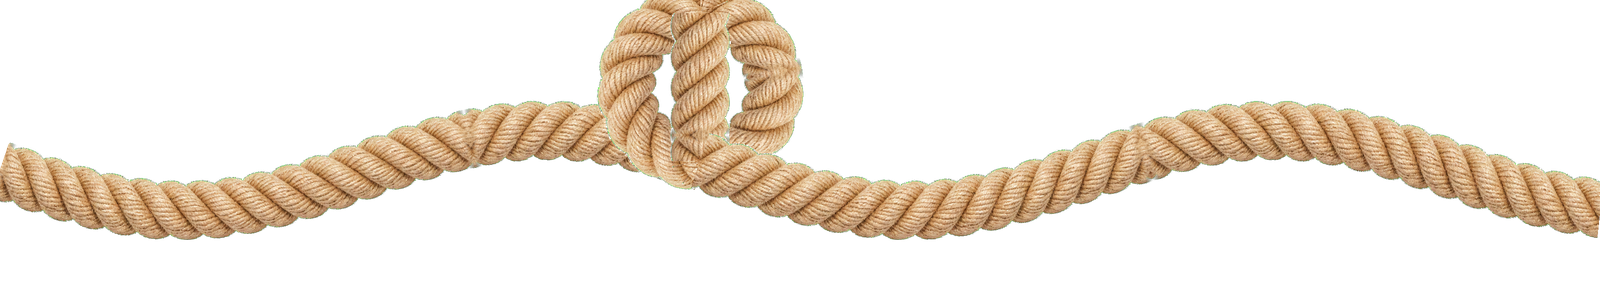
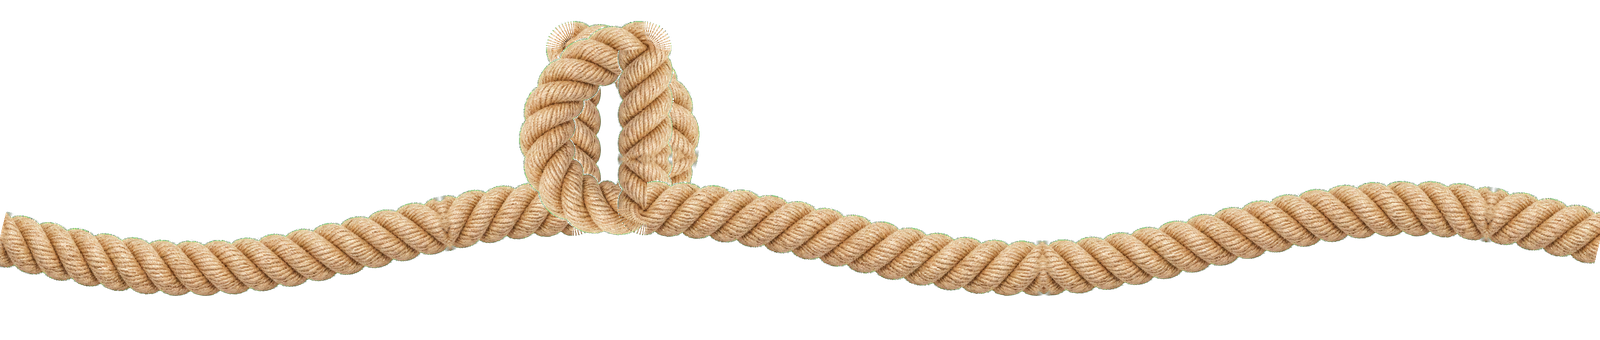
Lasso refined: single cursive loop with under-crossing, periodic ends, tangent smoothing

diff --git a/index.html b/index.html
@@ -117,10 +117,10 @@
 <body>
 
 <nav class="rope-nav" aria-label="main">
-  <svg viewBox="0 0 1600 300" style="display:block; width:100%; height:auto;" role="navigation">
-    <image href="assets/rope-banner.png" x="0" y="0" width="1600" height="300"/>
+  <svg viewBox="0 0 1600 340" style="display:block; width:100%; height:auto;" role="navigation">
+    <image href="assets/rope-banner.png" x="0" y="0" width="1600" height="340"/>
     <defs>
-      <path id="ropePath" d="M 0.0 170.0 L 3.8 171.3 L 7.6 172.6 L 11.3 173.9 L 15.1 175.2 L 18.9 176.5 L 22.7 177.8 L 26.5 179.1 L 30.3 180.3 L 34.1 181.6 L 37.9 182.9 L 41.7 184.1 L 45.5 185.3 L 49.3 186.5 L 53.1 187.7 L 56.9 188.9 L 60.8 190.0 L 64.6 191.2 L 68.5 192.3 L 72.3 193.4 L 76.2 194.5 L 80.0 195.5 L 83.9 196.5 L 87.8 197.5 L 91.6 198.5 L 95.5 199.4 L 99.4 200.3 L 103.3 201.2 L 107.3 202.0 L 111.2 202.8 L 115.1 203.5 L 119.0 204.3 L 123.0 204.9 L 126.9 205.6 L 130.9 206.2 L 134.8 206.7 L 138.8 207.3 L 142.8 207.7 L 146.8 208.2 L 150.7 208.6 L 154.7 208.9 L 158.7 209.2 L 162.7 209.5 L 166.7 209.7 L 170.7 209.8 L 174.7 209.9 L 178.7 210.0 L 182.7 210.0 L 186.7 210.0 L 190.7 209.9 L 194.7 209.8 L 198.7 209.6 L 202.7 209.4 L 206.7 209.1 L 210.7 208.8 L 214.6 208.4 L 218.6 208.0 L 222.6 207.5 L 226.6 207.0 L 230.5 206.5 L 234.5 205.9 L 238.4 205.3 L 242.4 204.6 L 246.3 203.9 L 250.2 203.2 L 254.2 202.4 L 258.1 201.6 L 262.0 200.8 L 265.9 199.9 L 269.8 199.0 L 273.7 198.1 L 277.6 197.1 L 281.4 196.1 L 285.3 195.1 L 289.2 194.0 L 293.0 192.9 L 296.9 191.8 L 300.7 190.7 L 304.5 189.5 L 308.4 188.4 L 312.2 187.2 L 316.0 186.0 L 319.8 184.8 L 323.6 183.6 L 327.4 182.3 L 331.2 181.1 L 335.0 179.8 L 338.8 178.5 L 342.6 177.2 L 346.4 175.9 L 350.2 174.6 L 353.9 173.3 L 357.7 172.0 L 361.5 170.7 L 365.3 169.4 L 369.1 168.1 L 372.8 166.8 L 376.6 165.5 L 380.4 164.2 L 384.2 162.9 L 388.0 161.6 L 391.8 160.4 L 395.6 159.1 L 399.4 157.8 L 403.2 156.6 L 407.0 155.4 L 410.8 154.2 L 414.6 153.0 L 418.4 151.8 L 422.2 150.6 L 426.1 149.5 L 429.9 148.3 L 433.8 147.2 L 437.6 146.1 L 441.5 145.1 L 445.3 144.1 L 449.2 143.1 L 453.1 142.1 L 457.0 141.1 L 460.9 140.2 L 464.8 139.3 L 468.7 138.5 L 472.6 137.7 L 476.5 136.9 L 480.4 136.1 L 484.4 135.4 L 488.3 134.8 L 492.3 134.1 L 496.2 133.6 L 500.2 133.0 L 504.2 132.5 L 508.1 132.1 L 512.1 131.6 L 516.1 131.3 L 520.1 131.0 L 524.1 130.7 L 528.1 130.5 L 532.1 130.3 L 536.1 130.1 L 540.1 130.0 L 544.1 130.0 L 548.1 130.0 L 552.1 130.1 L 556.1 130.2 L 560.1 130.3 L 564.1 130.5 L 568.0 130.8 L 572.0 131.1 L 576.0 131.4 L 580.0 131.8 L 584.0 132.2 L 588.0 132.7 L 591.9 133.2 L 595.9 133.7 L 599.8 134.3 L 603.8 135.0 L 607.7 135.7 L 611.7 136.4 L 615.6 137.1 L 619.5 137.9 L 623.4 138.7 L 627.3 139.6 L 631.2 140.5 L 635.1 141.4 L 639.0 142.4 L 642.9 143.4 L 646.8 144.4 L 650.6 145.4 L 654.5 146.5 L 658.3 147.6 L 662.2 148.7 L 666.0 149.8 L 669.8 151.0 L 673.7 152.1 L 677.5 153.3 L 681.3 154.5 L 685.1 155.7 L 688.9 157.0 L 692.7 158.2 L 696.5 159.5 L 700.0 160.4 L 700.0 156.4 L 700.0 152.4 L 700.0 148.4 L 700.0 144.4 L 700.0 140.4 L 700.0 136.4 L 700.0 132.4 L 700.0 128.4 L 700.0 124.4 L 700.0 120.4 L 700.0 116.4 L 700.0 112.4 L 700.0 108.4 L 700.0 104.4 L 700.0 100.4 L 700.0 96.4 L 700.0 92.4 L 700.0 88.4 L 700.0 84.4 L 700.0 80.4 L 700.0 76.4 L 700.0 72.4 L 700.0 68.4 L 700.0 64.4 L 700.0 60.4 L 700.0 56.4 L 700.0 52.4 L 700.0 48.4 L 700.0 44.4 L 700.0 40.4 L 700.0 36.4 L 700.0 32.4 L 700.0 28.4 L 700.0 24.4 L 700.0 20.4 L 700.0 16.4 L 700.3 12.7 L 704.3 12.8 L 708.3 13.1 L 712.2 13.7 L 716.2 14.5 L 720.1 15.4 L 723.9 16.6 L 727.6 18.0 L 731.3 19.6 L 734.9 21.4 L 738.3 23.4 L 741.7 25.5 L 744.9 27.9 L 748.1 30.4 L 751.0 33.1 L 753.8 35.9 L 756.5 38.9 L 759.0 42.0 L 761.3 45.3 L 763.5 48.6 L 765.4 52.1 L 767.2 55.7 L 768.8 59.4 L 770.2 63.1 L 771.3 67.0 L 772.3 70.9 L 773.0 74.8 L 773.6 78.7 L 773.9 82.7 L 774.0 86.7 L 773.9 90.7 L 773.6 94.7 L 773.0 98.7 L 772.3 102.6 L 771.3 106.5 L 770.1 110.3 L 768.7 114.1 L 767.2 117.7 L 765.4 121.3 L 763.4 124.8 L 761.3 128.2 L 758.9 131.4 L 756.4 134.5 L 753.8 137.5 L 750.9 140.3 L 748.0 143.0 L 744.8 145.5 L 741.6 147.9 L 738.2 150.0 L 734.7 152.0 L 731.2 153.8 L 727.5 155.4 L 723.7 156.7 L 719.9 157.9 L 716.0 158.9 L 712.1 159.7 L 708.2 160.2 L 704.2 160.5 L 700.2 160.7 L 696.2 160.6 L 692.2 160.2 L 688.2 159.7 L 684.3 159.0 L 680.4 158.0 L 676.6 156.9 L 672.8 155.5 L 669.1 153.9 L 665.6 152.2 L 662.1 150.2 L 658.7 148.1 L 655.4 145.7 L 652.3 143.2 L 649.3 140.6 L 646.5 137.8 L 643.8 134.8 L 641.3 131.7 L 638.9 128.5 L 636.8 125.1 L 634.8 121.6 L 633.0 118.0 L 631.4 114.4 L 630.0 110.6 L 628.8 106.8 L 627.8 102.9 L 627.0 99.0 L 626.5 95.1 L 626.1 91.1 L 626.0 87.1 L 626.1 83.1 L 626.4 79.1 L 626.9 75.1 L 627.6 71.2 L 628.6 67.3 L 629.7 63.5 L 631.1 59.7 L 632.6 56.0 L 634.4 52.4 L 636.3 48.9 L 638.5 45.6 L 640.8 42.3 L 643.3 39.2 L 645.9 36.2 L 648.7 33.3 L 651.7 30.6 L 654.8 28.1 L 658.0 25.7 L 661.4 23.5 L 664.8 21.6 L 668.4 19.7 L 672.1 18.1 L 675.8 16.7 L 679.6 15.5 L 683.5 14.5 L 687.4 13.7 L 691.4 13.2 L 695.4 12.8 L 699.3 12.7 L 700.0 16.0 L 700.0 20.0 L 700.0 24.0 L 700.0 28.0 L 700.0 32.0 L 700.0 36.0 L 700.0 40.0 L 700.0 44.0 L 700.0 48.0 L 700.0 52.0 L 700.0 56.0 L 700.0 60.0 L 700.0 64.0 L 700.0 68.0 L 700.0 72.0 L 700.0 76.0 L 700.0 80.0 L 700.0 84.0 L 700.0 88.0 L 700.0 92.0 L 700.0 96.0 L 700.0 100.0 L 700.0 104.0 L 700.0 108.0 L 700.0 112.0 L 700.0 116.0 L 700.0 120.0 L 700.0 124.0 L 700.0 128.0 L 700.0 132.0 L 700.0 136.0 L 700.0 140.0 L 700.0 144.0 L 700.0 148.0 L 700.0 152.0 L 700.0 156.0 L 700.0 160.0 L 703.2 161.7 L 707.0 163.0 L 710.7 164.3 L 714.5 165.6 L 718.3 166.9 L 722.1 168.2 L 725.9 169.5 L 729.7 170.8 L 733.4 172.1 L 737.2 173.4 L 741.0 174.7 L 744.8 176.0 L 748.6 177.3 L 752.4 178.6 L 756.2 179.9 L 759.9 181.1 L 763.7 182.4 L 767.5 183.6 L 771.4 184.9 L 775.2 186.1 L 779.0 187.3 L 782.8 188.5 L 786.6 189.6 L 790.5 190.8 L 794.3 191.9 L 798.1 193.0 L 802.0 194.1 L 805.9 195.1 L 809.7 196.1 L 813.6 197.1 L 817.5 198.1 L 821.4 199.1 L 825.3 200.0 L 829.2 200.8 L 833.1 201.7 L 837.0 202.5 L 840.9 203.3 L 844.9 204.0 L 848.8 204.7 L 852.7 205.4 L 856.7 206.0 L 860.6 206.5 L 864.6 207.1 L 868.6 207.6 L 872.6 208.0 L 876.5 208.4 L 880.5 208.8 L 884.5 209.1 L 888.5 209.4 L 892.5 209.6 L 896.5 209.8 L 900.5 209.9 L 904.5 210.0 L 908.5 210.0 L 912.5 210.0 L 916.5 209.9 L 920.5 209.8 L 924.5 209.6 L 928.5 209.4 L 932.5 209.2 L 936.5 208.9 L 940.4 208.5 L 944.4 208.2 L 948.4 207.7 L 952.4 207.2 L 956.3 206.7 L 960.3 206.1 L 964.2 205.5 L 968.2 204.9 L 972.1 204.2 L 976.1 203.5 L 980.0 202.7 L 983.9 201.9 L 987.8 201.1 L 991.7 200.2 L 995.6 199.3 L 999.5 198.4 L 1003.4 197.4 L 1007.3 196.5 L 1011.1 195.4 L 1015.0 194.4 L 1018.9 193.3 L 1022.7 192.2 L 1026.6 191.1 L 1030.4 190.0 L 1034.2 188.8 L 1038.0 187.6 L 1041.9 186.4 L 1045.7 185.2 L 1049.5 184.0 L 1053.3 182.8 L 1057.1 181.5 L 1060.9 180.3 L 1064.7 179.0 L 1068.5 177.7 L 1072.2 176.4 L 1076.0 175.1 L 1079.8 173.8 L 1083.6 172.5 L 1087.4 171.2 L 1091.2 169.9 L 1094.9 168.6 L 1098.7 167.3 L 1102.5 166.0 L 1106.3 164.7 L 1110.1 163.4 L 1113.9 162.1 L 1117.6 160.8 L 1121.4 159.6 L 1125.2 158.3 L 1129.0 157.1 L 1132.8 155.8 L 1136.6 154.6 L 1140.5 153.4 L 1144.3 152.2 L 1148.1 151.0 L 1151.9 149.9 L 1155.8 148.7 L 1159.6 147.6 L 1163.5 146.5 L 1167.3 145.5 L 1171.2 144.4 L 1175.0 143.4 L 1178.9 142.4 L 1182.8 141.5 L 1186.7 140.5 L 1190.6 139.7 L 1194.5 138.8 L 1198.4 138.0 L 1202.3 137.2 L 1206.3 136.4 L 1210.2 135.7 L 1214.1 135.0 L 1218.1 134.4 L 1222.0 133.8 L 1226.0 133.2 L 1230.0 132.7 L 1233.9 132.2 L 1237.9 131.8 L 1241.9 131.4 L 1245.9 131.1 L 1249.9 130.8 L 1253.9 130.5 L 1257.9 130.3 L 1261.9 130.2 L 1265.9 130.1 L 1269.9 130.0 L 1273.9 130.0 L 1277.9 130.0 L 1281.9 130.1 L 1285.9 130.3 L 1289.9 130.4 L 1293.8 130.7 L 1297.8 130.9 L 1301.8 131.3 L 1305.8 131.6 L 1309.8 132.0 L 1313.8 132.5 L 1317.7 133.0 L 1321.7 133.5 L 1325.6 134.1 L 1329.6 134.7 L 1333.5 135.4 L 1337.5 136.1 L 1341.4 136.8 L 1345.3 137.6 L 1349.3 138.4 L 1353.2 139.3 L 1357.1 140.2 L 1361.0 141.1 L 1364.8 142.0 L 1368.7 143.0 L 1372.6 144.0 L 1376.5 145.0 L 1380.3 146.1 L 1384.2 147.2 L 1388.0 148.3 L 1391.9 149.4 L 1395.7 150.5 L 1399.5 151.7 L 1403.3 152.9 L 1407.2 154.1 L 1411.0 155.3 L 1414.8 156.5 L 1418.6 157.8 L 1422.4 159.0 L 1426.2 160.3 L 1430.0 161.6 L 1433.7 162.8 L 1437.5 164.1 L 1441.3 165.4 L 1445.1 166.7 L 1448.9 168.0 L 1452.7 169.3 L 1456.4 170.7 L 1460.2 172.0 L 1464.0 173.3 L 1467.8 174.6 L 1471.6 175.9 L 1475.4 177.2 L 1479.1 178.4 L 1482.9 179.7 L 1486.7 181.0 L 1490.5 182.2 L 1494.3 183.5 L 1498.1 184.7 L 1501.9 185.9 L 1505.8 187.1 L 1509.6 188.3 L 1513.4 189.5 L 1517.2 190.6 L 1521.1 191.7 L 1524.9 192.8 L 1528.8 193.9 L 1532.6 195.0 L 1536.5 196.0 L 1540.4 197.0 L 1544.2 198.0 L 1548.1 198.9 L 1552.0 199.8 L 1555.9 200.7 L 1559.8 201.6 L 1563.8 202.4 L 1567.7 203.2 L 1571.6 203.9 L 1575.5 204.6 L 1579.5 205.3 L 1583.4 205.9 L 1587.4 206.5 L 1591.4 207.0 L 1595.3 207.5 L 1599.3 208.0" />
+      <path id="ropePath" d="M 0.0 238.0 L 3.9 239.0 L 7.8 239.9 L 11.7 240.9 L 15.5 241.8 L 19.4 242.8 L 23.3 243.7 L 27.2 244.7 L 31.1 245.6 L 35.0 246.5 L 38.9 247.4 L 42.8 248.3 L 46.7 249.2 L 50.6 250.1 L 54.5 251.0 L 58.4 251.9 L 62.3 252.7 L 66.2 253.5 L 70.1 254.4 L 74.0 255.2 L 78.0 255.9 L 81.9 256.7 L 85.8 257.5 L 89.7 258.2 L 93.7 258.9 L 97.6 259.6 L 101.6 260.2 L 105.5 260.9 L 109.5 261.5 L 113.4 262.1 L 117.4 262.7 L 121.3 263.2 L 125.3 263.7 L 129.3 264.2 L 133.3 264.7 L 137.2 265.1 L 141.2 265.5 L 145.2 265.9 L 149.2 266.2 L 153.2 266.6 L 157.2 266.8 L 161.1 267.1 L 165.1 267.3 L 169.1 267.5 L 173.1 267.7 L 177.1 267.8 L 181.1 267.9 L 185.1 268.0 L 189.1 268.0 L 193.1 268.0 L 197.1 268.0 L 201.1 267.9 L 205.1 267.8 L 209.1 267.7 L 213.1 267.5 L 217.1 267.3 L 221.1 267.1 L 225.1 266.8 L 229.1 266.5 L 233.1 266.2 L 237.1 265.9 L 241.0 265.5 L 245.0 265.1 L 249.0 264.7 L 253.0 264.2 L 256.9 263.7 L 260.9 263.2 L 264.9 262.6 L 268.8 262.1 L 272.8 261.5 L 276.7 260.8 L 280.7 260.2 L 284.6 259.5 L 288.6 258.8 L 292.5 258.1 L 296.4 257.4 L 300.4 256.7 L 304.3 255.9 L 308.2 255.1 L 312.1 254.3 L 316.0 253.5 L 320.0 252.7 L 323.9 251.8 L 327.8 250.9 L 331.7 250.1 L 335.6 249.2 L 339.5 248.3 L 343.4 247.4 L 347.3 246.5 L 351.2 245.5 L 355.0 244.6 L 358.9 243.7 L 362.8 242.7 L 366.7 241.8 L 370.6 240.8 L 374.5 239.9 L 378.4 238.9 L 382.2 237.9 L 386.1 237.0 L 390.0 236.0 L 393.9 235.1 L 397.8 234.1 L 401.7 233.2 L 405.6 232.2 L 409.4 231.3 L 413.3 230.4 L 417.2 229.4 L 421.1 228.5 L 425.0 227.6 L 428.9 226.7 L 432.8 225.8 L 436.7 225.0 L 440.6 224.1 L 444.5 223.2 L 448.4 222.4 L 452.4 221.6 L 456.3 220.8 L 460.2 220.0 L 464.1 219.2 L 468.1 218.5 L 472.0 217.8 L 475.9 217.1 L 479.9 216.4 L 483.8 215.7 L 487.8 215.1 L 491.7 214.5 L 495.7 213.9 L 499.6 213.3 L 503.6 212.8 L 507.6 212.2 L 511.5 211.8 L 515.5 211.3 L 519.5 210.9 L 523.5 210.5 L 527.4 210.1 L 531.4 209.7 L 535.4 209.4 L 539.4 209.1 L 543.4 208.9 L 547.4 208.7 L 551.4 208.5 L 555.4 208.3 L 559.4 208.2 L 563.4 208.1 L 567.4 208.0 L 571.4 208.0 L 573.0 205.6 L 573.0 201.6 L 573.0 197.6 L 573.0 193.6 L 573.0 189.6 L 573.0 185.6 L 573.0 181.6 L 573.0 177.6 L 573.0 173.6 L 573.0 169.6 L 573.0 165.6 L 573.0 161.6 L 573.0 157.6 L 573.0 153.6 L 573.0 149.6 L 573.0 145.6 L 573.0 141.6 L 573.0 137.6 L 573.0 133.6 L 573.0 129.6 L 573.0 125.6 L 573.0 121.6 L 573.0 117.6 L 573.0 113.6 L 573.0 109.6 L 573.0 105.6 L 573.0 101.6 L 573.0 97.6 L 573.0 93.6 L 573.0 89.6 L 573.0 85.6 L 573.0 81.6 L 573.0 77.6 L 573.0 73.6 L 573.0 69.6 L 573.0 65.6 L 573.0 61.6 L 573.0 57.6 L 573.0 53.6 L 573.0 49.6 L 575.4 48.0 L 579.4 48.2 L 583.4 48.5 L 587.3 49.0 L 591.3 49.6 L 595.2 50.4 L 599.1 51.3 L 602.9 52.4 L 606.8 53.6 L 610.5 55.0 L 614.2 56.5 L 617.9 58.2 L 621.4 60.0 L 624.9 61.9 L 628.3 64.0 L 631.7 66.2 L 634.9 68.5 L 638.1 71.0 L 641.1 73.6 L 644.0 76.3 L 646.8 79.2 L 649.5 82.1 L 652.1 85.2 L 654.5 88.4 L 656.8 91.6 L 659.0 95.0 L 661.0 98.5 L 662.9 102.0 L 664.6 105.6 L 666.1 109.3 L 667.4 113.1 L 668.6 116.9 L 669.6 120.8 L 670.5 124.7 L 671.1 128.6 L 671.5 132.6 L 671.8 136.6 L 671.8 140.6 L 671.7 144.6 L 671.3 148.6 L 670.7 152.5 L 669.9 156.5 L 668.9 160.3 L 667.7 164.2 L 666.3 167.9 L 664.7 171.6 L 662.9 175.1 L 660.8 178.6 L 658.6 181.9 L 656.2 185.1 L 653.6 188.1 L 650.8 190.9 L 647.8 193.6 L 644.7 196.1 L 641.4 198.4 L 637.9 200.4 L 634.4 202.3 L 630.7 203.9 L 627.0 205.2 L 623.1 206.3 L 619.2 207.1 L 615.2 207.7 L 611.2 208.0 L 607.2 208.0 L 603.2 207.7 L 599.3 207.2 L 595.4 206.4 L 591.5 205.3 L 587.7 204.0 L 584.0 202.5 L 580.5 200.7 L 577.0 198.6 L 573.7 196.4 L 570.6 193.9 L 567.6 191.3 L 564.8 188.4 L 562.1 185.4 L 559.7 182.3 L 557.4 179.0 L 555.4 175.5 L 553.5 172.0 L 551.9 168.3 L 550.4 164.6 L 549.2 160.8 L 548.2 156.9 L 547.4 153.0 L 546.8 149.1 L 546.4 145.1 L 546.2 141.1 L 546.2 137.1 L 546.4 133.1 L 546.8 129.1 L 547.5 125.2 L 548.3 121.2 L 549.2 117.4 L 550.4 113.5 L 551.7 109.8 L 553.2 106.1 L 554.9 102.4 L 556.8 98.9 L 558.7 95.4 L 560.9 92.0 L 563.2 88.7 L 565.6 85.6 L 568.1 82.5 L 570.8 79.5 L 573.6 76.7 L 576.5 73.9 L 579.6 71.3 L 582.7 68.8 L 585.9 66.5 L 589.3 64.2 L 592.7 62.1 L 596.1 60.2 L 599.7 58.4 L 603.3 56.7 L 607.0 55.2 L 610.8 53.8 L 614.6 52.5 L 618.4 51.4 L 622.3 50.5 L 626.2 49.7 L 630.2 49.1 L 634.2 48.6 L 638.1 48.2 L 642.1 48.0 L 645.0 49.1 L 645.0 53.1 L 645.0 57.1 L 645.0 61.1 L 645.0 65.1 L 645.0 69.1 L 645.0 73.1 L 645.0 77.1 L 645.0 81.1 L 645.0 85.1 L 645.0 89.1 L 645.0 93.1 L 645.0 97.1 L 645.0 101.1 L 645.0 105.1 L 645.0 109.1 L 645.0 113.1 L 645.0 117.1 L 645.0 121.1 L 645.0 125.1 L 645.0 129.1 L 645.0 133.1 L 645.0 137.1 L 645.0 141.1 L 645.0 145.1 L 645.0 149.1 L 645.0 153.1 L 645.0 157.1 L 645.0 161.1 L 645.0 165.1 L 645.0 169.1 L 645.0 173.1 L 645.0 177.1 L 645.0 181.1 L 645.0 185.1 L 645.0 189.1 L 645.0 193.1 L 645.0 197.1 L 645.0 201.1 L 645.0 205.1 L 646.1 208.0 L 650.1 208.0 L 654.1 208.1 L 658.1 208.2 L 662.1 208.3 L 666.1 208.5 L 670.1 208.6 L 674.1 208.9 L 678.1 209.1 L 682.1 209.4 L 686.1 209.7 L 690.1 210.0 L 694.1 210.4 L 698.0 210.8 L 702.0 211.2 L 706.0 211.7 L 710.0 212.2 L 713.9 212.7 L 717.9 213.2 L 721.9 213.8 L 725.8 214.4 L 729.8 215.0 L 733.7 215.6 L 737.7 216.3 L 741.6 217.0 L 745.5 217.7 L 749.5 218.4 L 753.4 219.2 L 757.3 219.9 L 761.3 220.7 L 765.2 221.5 L 769.1 222.3 L 773.0 223.1 L 776.9 224.0 L 780.8 224.8 L 784.7 225.7 L 788.6 226.6 L 792.5 227.5 L 796.4 228.4 L 800.3 229.3 L 804.2 230.2 L 808.1 231.2 L 812.0 232.1 L 815.9 233.1 L 819.8 234.0 L 823.6 235.0 L 827.5 235.9 L 831.4 236.9 L 835.3 237.8 L 839.2 238.8 L 843.1 239.7 L 846.9 240.7 L 850.8 241.6 L 854.7 242.6 L 858.6 243.5 L 862.5 244.5 L 866.4 245.4 L 870.3 246.3 L 874.2 247.3 L 878.1 248.2 L 882.0 249.1 L 885.9 250.0 L 889.8 250.8 L 893.7 251.7 L 897.6 252.5 L 901.5 253.4 L 905.4 254.2 L 909.3 255.0 L 913.2 255.8 L 917.2 256.6 L 921.1 257.3 L 925.0 258.1 L 929.0 258.8 L 932.9 259.5 L 936.8 260.1 L 940.8 260.8 L 944.7 261.4 L 948.7 262.0 L 952.7 262.6 L 956.6 263.1 L 960.6 263.6 L 964.6 264.1 L 968.5 264.6 L 972.5 265.0 L 976.5 265.4 L 980.5 265.8 L 984.4 266.2 L 988.4 266.5 L 992.4 266.8 L 996.4 267.1 L 1000.4 267.3 L 1004.4 267.5 L 1008.4 267.6 L 1012.4 267.8 L 1016.4 267.9 L 1020.4 268.0 L 1024.4 268.0 L 1028.4 268.0 L 1032.4 268.0 L 1036.4 267.9 L 1040.4 267.8 L 1044.4 267.7 L 1048.4 267.5 L 1052.4 267.3 L 1056.4 267.1 L 1060.4 266.9 L 1064.4 266.6 L 1068.3 266.3 L 1072.3 265.9 L 1076.3 265.6 L 1080.3 265.2 L 1084.3 264.7 L 1088.2 264.3 L 1092.2 263.8 L 1096.2 263.3 L 1100.1 262.7 L 1104.1 262.2 L 1108.1 261.6 L 1112.0 261.0 L 1116.0 260.3 L 1119.9 259.7 L 1123.8 259.0 L 1127.8 258.3 L 1131.7 257.5 L 1135.6 256.8 L 1139.6 256.0 L 1143.5 255.3 L 1147.4 254.5 L 1151.3 253.6 L 1155.2 252.8 L 1159.2 252.0 L 1163.1 251.1 L 1167.0 250.2 L 1170.9 249.3 L 1174.8 248.4 L 1178.7 247.5 L 1182.6 246.6 L 1186.4 245.7 L 1190.3 244.8 L 1194.2 243.8 L 1198.1 242.9 L 1202.0 241.9 L 1205.9 241.0 L 1209.8 240.0 L 1213.6 239.1 L 1217.5 238.1 L 1221.4 237.2 L 1225.3 236.2 L 1229.2 235.2 L 1233.1 234.3 L 1237.0 233.3 L 1240.8 232.4 L 1244.7 231.5 L 1248.6 230.5 L 1252.5 229.6 L 1256.4 228.7 L 1260.3 227.8 L 1264.2 226.9 L 1268.1 226.0 L 1272.0 225.1 L 1275.9 224.2 L 1279.8 223.4 L 1283.7 222.6 L 1287.6 221.7 L 1291.6 220.9 L 1295.5 220.2 L 1299.4 219.4 L 1303.3 218.6 L 1307.3 217.9 L 1311.2 217.2 L 1315.1 216.5 L 1319.1 215.8 L 1323.0 215.2 L 1327.0 214.6 L 1330.9 214.0 L 1334.9 213.4 L 1338.9 212.9 L 1342.8 212.3 L 1346.8 211.8 L 1350.8 211.4 L 1354.7 210.9 L 1358.7 210.5 L 1362.7 210.1 L 1366.7 209.8 L 1370.7 209.5 L 1374.7 209.2 L 1378.7 208.9 L 1382.7 208.7 L 1386.7 208.5 L 1390.6 208.3 L 1394.6 208.2 L 1398.6 208.1 L 1402.6 208.0 L 1406.6 208.0 L 1410.6 208.0 L 1414.6 208.0 L 1418.6 208.1 L 1422.6 208.2 L 1426.6 208.3 L 1430.6 208.5 L 1434.6 208.7 L 1438.6 208.9 L 1442.6 209.1 L 1446.6 209.4 L 1450.6 209.7 L 1454.6 210.1 L 1458.6 210.5 L 1462.5 210.9 L 1466.5 211.3 L 1470.5 211.8 L 1474.5 212.2 L 1478.4 212.8 L 1482.4 213.3 L 1486.4 213.9 L 1490.3 214.5 L 1494.3 215.1 L 1498.2 215.7 L 1502.2 216.4 L 1506.1 217.1 L 1510.0 217.8 L 1514.0 218.5 L 1517.9 219.2 L 1521.8 220.0 L 1525.7 220.8 L 1529.7 221.6 L 1533.6 222.4 L 1537.5 223.2 L 1541.4 224.1 L 1545.3 225.0 L 1549.2 225.8 L 1553.1 226.7 L 1557.0 227.6 L 1560.9 228.5 L 1564.8 229.4 L 1568.7 230.4 L 1572.6 231.3 L 1576.5 232.2 L 1580.4 233.2 L 1584.2 234.1 L 1588.1 235.1 L 1592.0 236.0 L 1595.9 237.0 L 1599.8 237.9" />
     </defs>
     <text style="font-family:'Sancreek',serif; font-size:52px; letter-spacing:0.08em;"
           fill="var(--white)" stroke="var(--red)" stroke-width="1.6" paint-order="stroke" dy="-14">